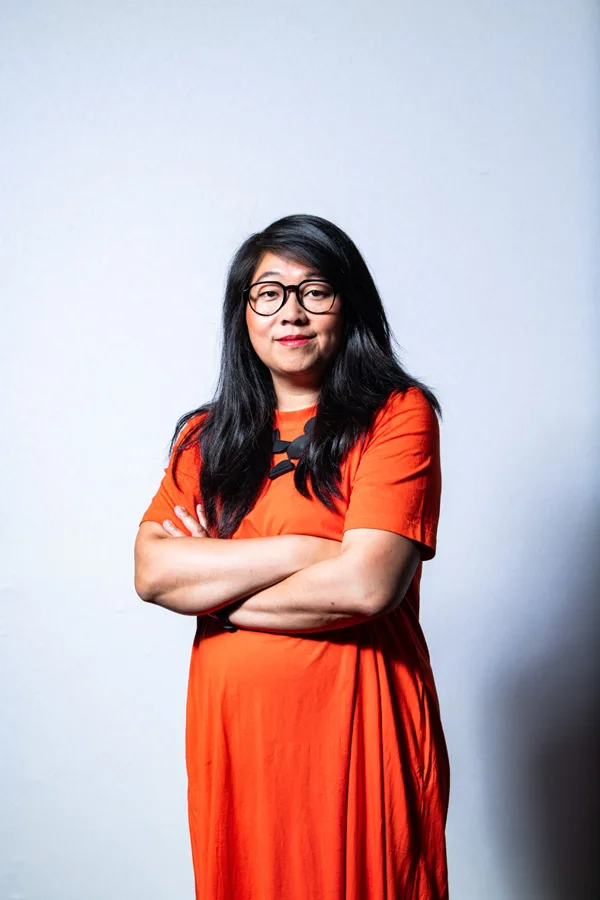
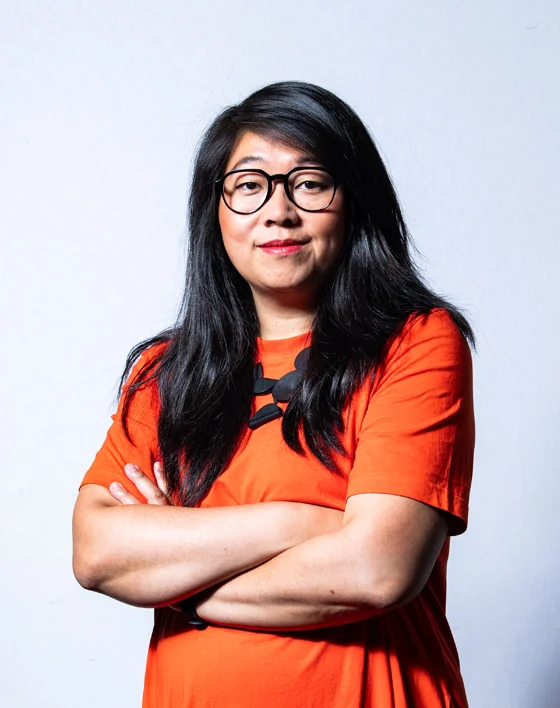
Yijing Lu: Porträt enger zugeschnitten

diff --git a/src/data/bild-manifest.ts b/src/data/bild-manifest.ts
@@ -1480,8 +1480,8 @@ export const BILD_MANIFEST: BildManifestEintrag[] = [
     "kategorie": "person",
     "jahrgang": null,
     "url": "/bilder/person/yijing-lu.webp",
-    "breite": 600,
-    "hoehe": 900,
+    "breite": 560,
+    "hoehe": 708,
     "verwendungen": [
       "Daten bilder"
     ]
